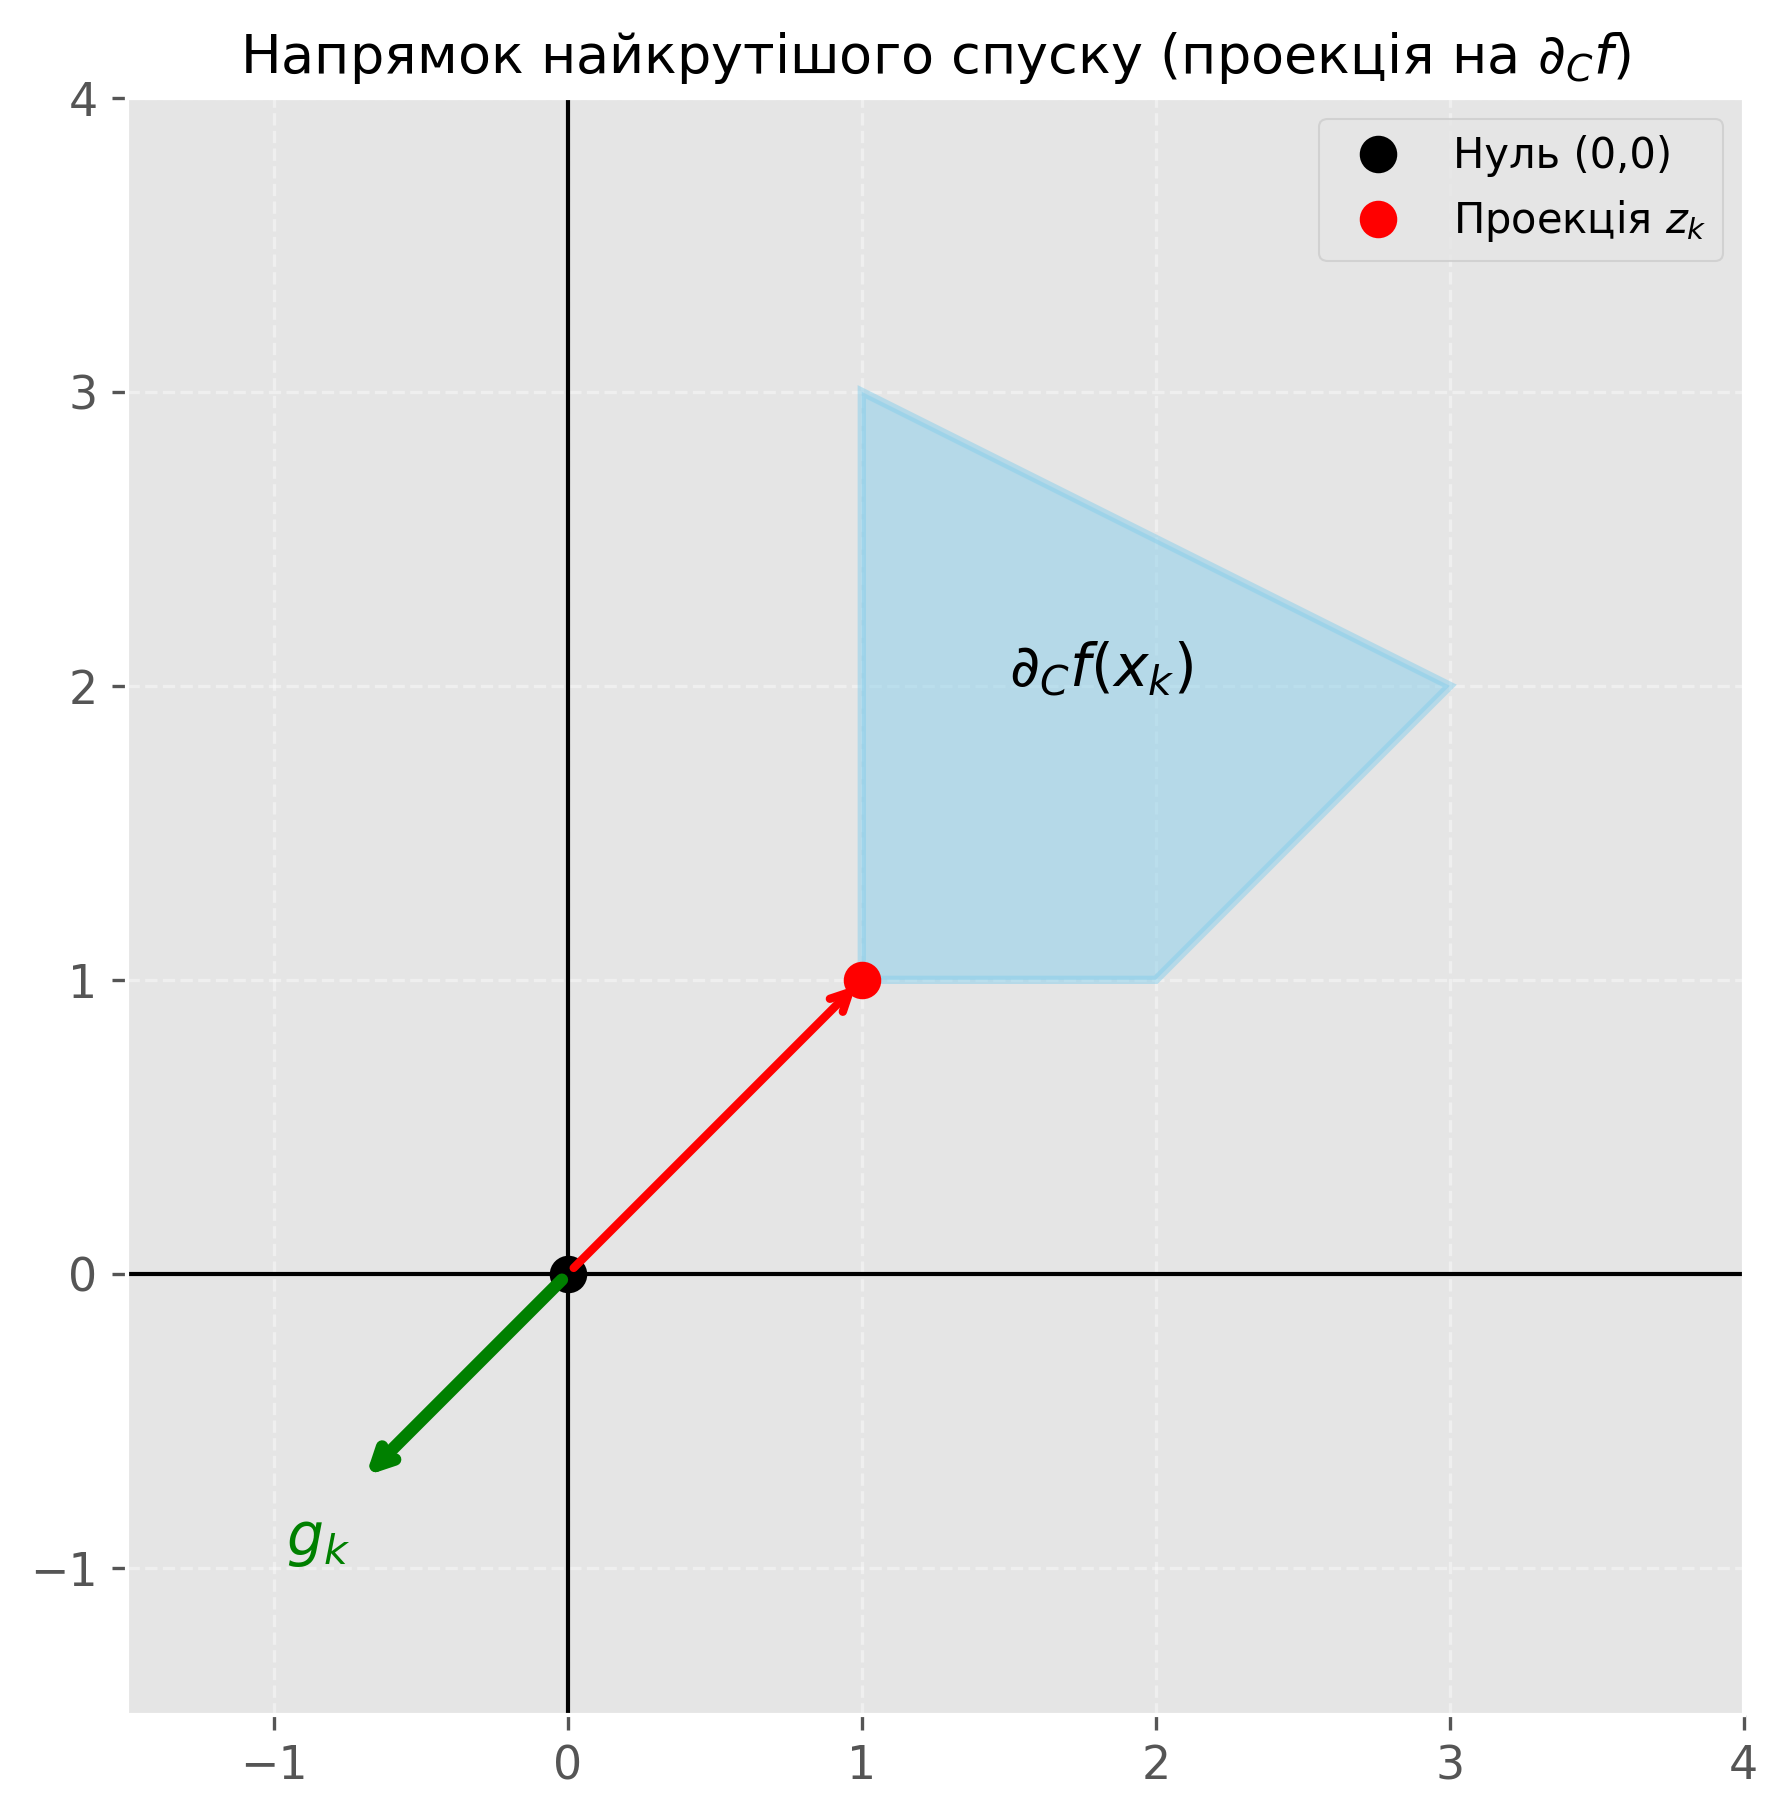
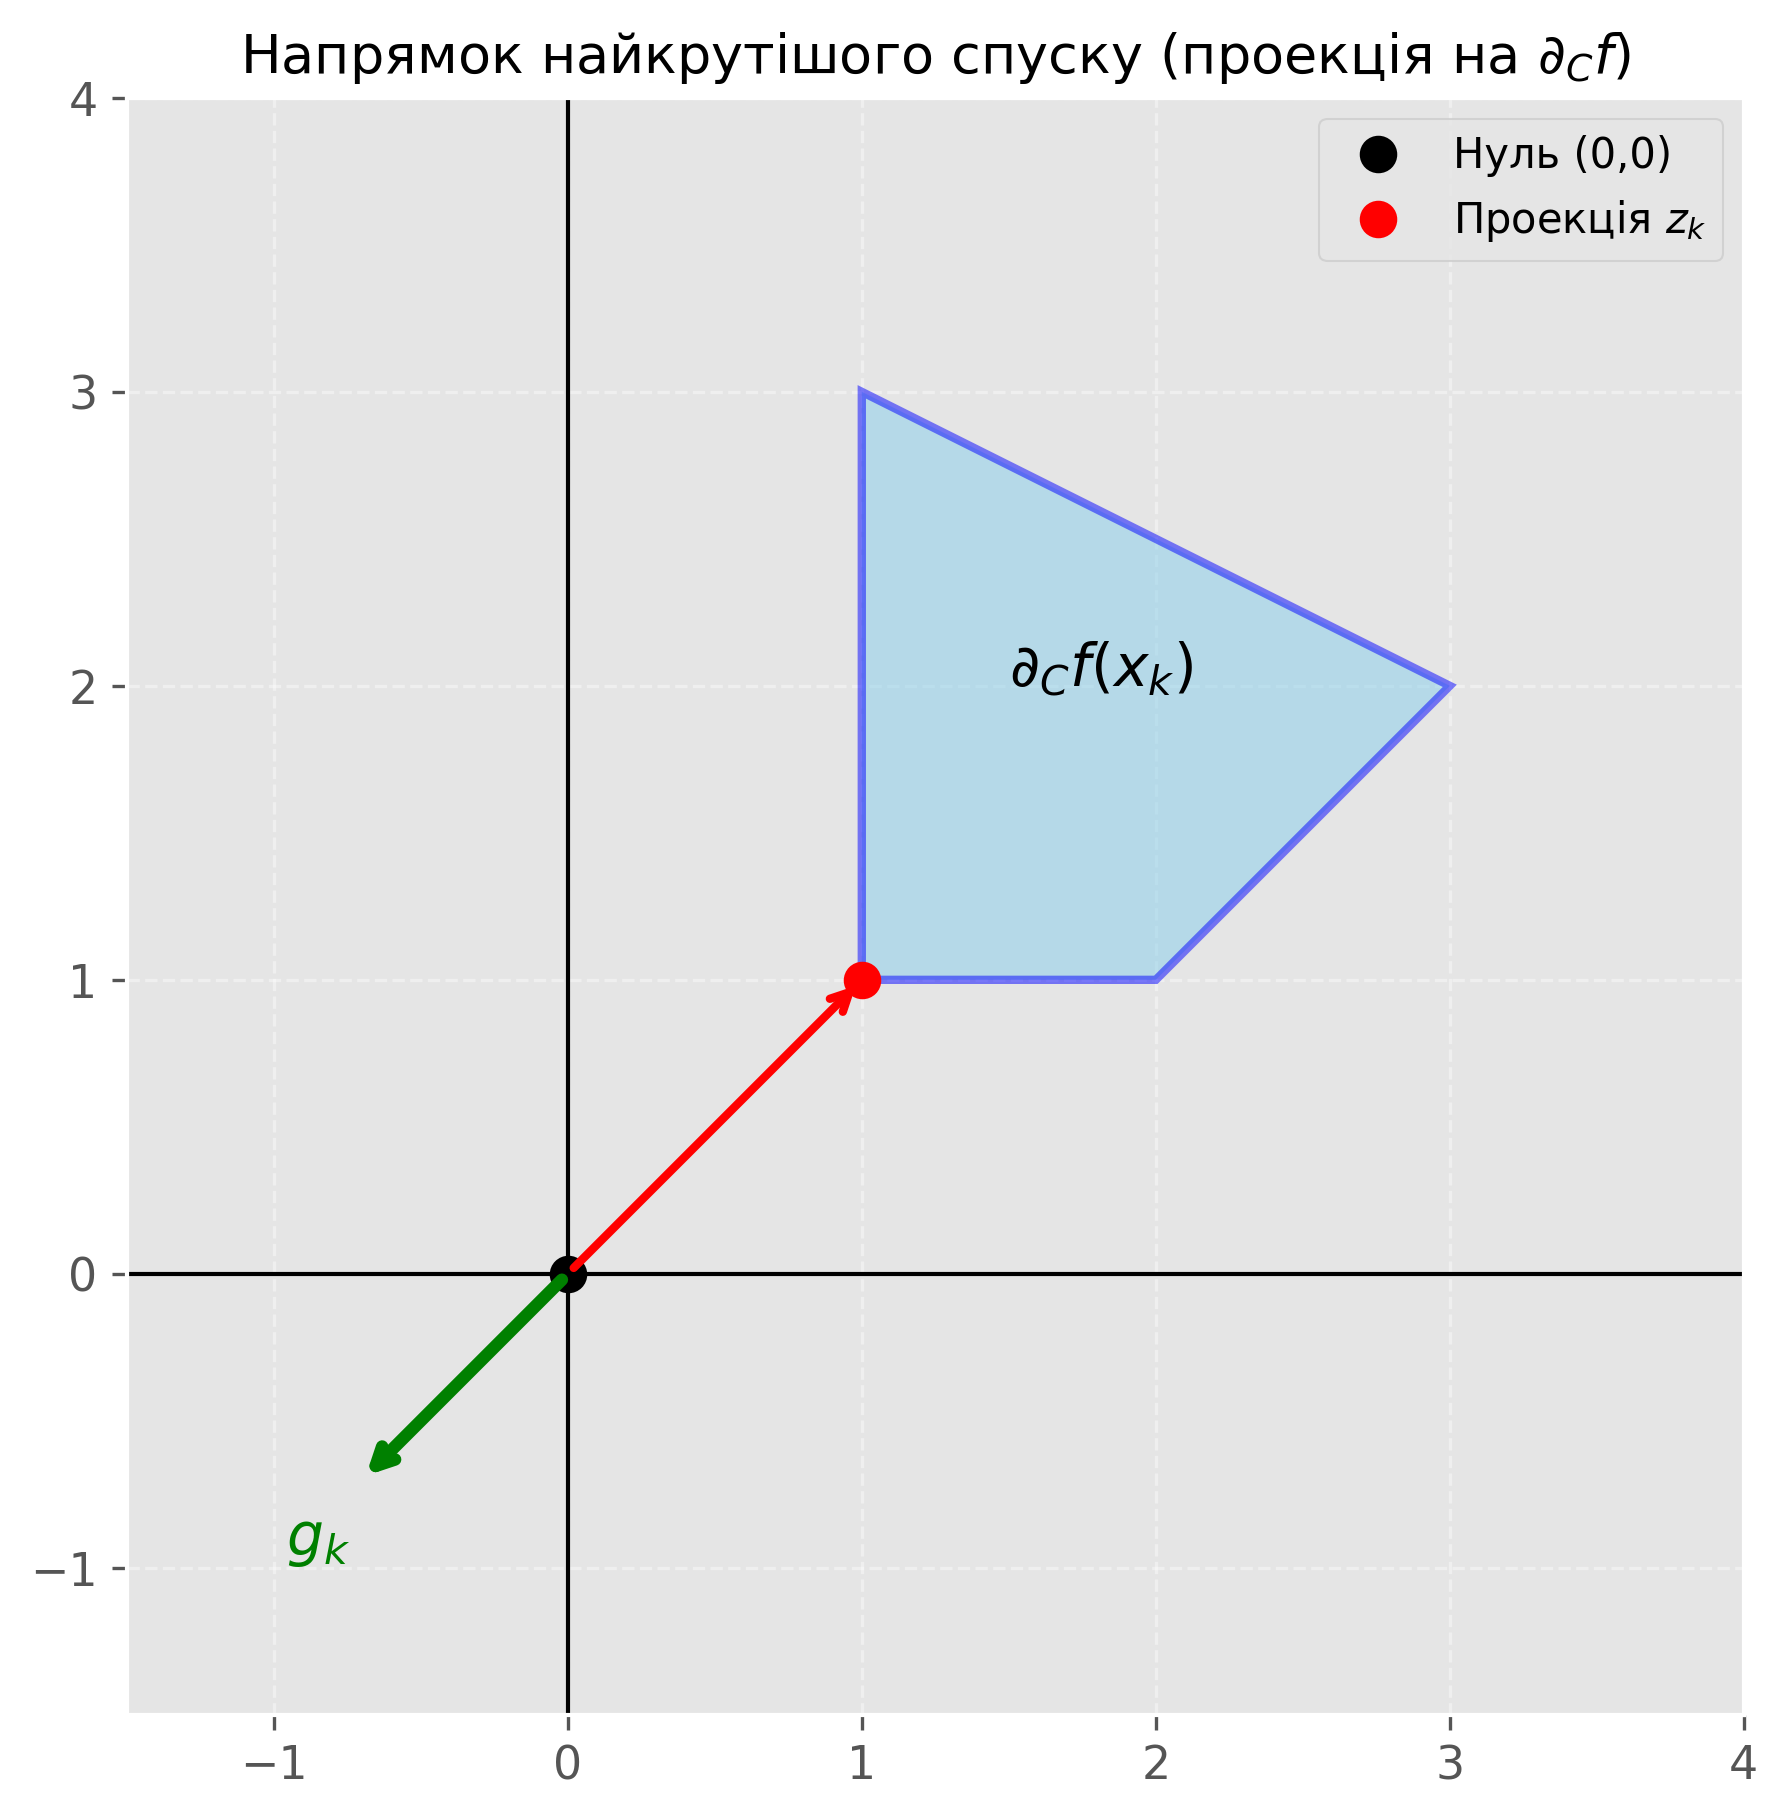
Add remaining glossary figures and tighten document layout.
Integrate 10 matplotlib illustrations into the handbook, reduce font and margins for a more compact PDF.

diff --git a/10-sem/nonsmooth-analysis/latex/generate_figures.py b/10-sem/nonsmooth-analysis/latex/generate_figures.py
@@ -6,6 +6,7 @@ from pathlib import Path
 import matplotlib.pyplot as plt
 import numpy as np
 from matplotlib.patches import Polygon
+from mpl_toolkits.mplot3d.art3d import Poly3DCollection
 
 OUTPUT_DIR = Path(__file__).resolve().parent / "images"
 OUTPUT_DIR.mkdir(exist_ok=True)
@@ -94,7 +95,7 @@ def plot_clarke_descent() -> Path:
     poly = Polygon(
         polygon_points,
         closed=True,
-        color="skyblue",
+        facecolor="skyblue",
         alpha=0.5,
         edgecolor="blue",
         linewidth=2,
@@ -125,11 +126,257 @@ def plot_clarke_descent() -> Path:
     return save_figure(fig, "clarke_descent.png")
 
 
+def plot_minkowski_gauge() -> Path:
+    fig, ax = plt.subplots(figsize=(7, 7))
+
+    u_points = np.array([[1, 0], [0, 1], [-1, 0], [0, -1]])
+    ax.add_patch(
+        Polygon(
+            u_points,
+            closed=True,
+            facecolor="blue",
+            alpha=0.3,
+            edgecolor="blue",
+            linewidth=2,
+            label="Множина $U$",
+        )
+    )
+
+    x_point = np.array([1.5, 1.5])
+    lambda_val = np.abs(x_point[0]) + np.abs(x_point[1])
+
+    lambda_u_points = u_points * lambda_val
+    ax.add_patch(
+        Polygon(
+            lambda_u_points,
+            closed=True,
+            facecolor="red",
+            alpha=0.1,
+            edgecolor="red",
+            linestyle="--",
+            linewidth=2,
+            label=r"$\lambda U$ (надута)",
+        )
+    )
+
+    ax.plot(x_point[0], x_point[1], "ro", markersize=8, label="Точка $x$")
+    ax.annotate("", xy=x_point, xytext=(0, 0), arrowprops=dict(arrowstyle="->", color="black", lw=1.5))
+    ax.plot(0, 0, "ko", markersize=6)
+
+    ax.set_xlim(-3.5, 3.5)
+    ax.set_ylim(-3.5, 3.5)
+    ax.set_aspect("equal")
+    ax.set_title(r"Функція Мінковського: $x \in \lambda U \Rightarrow p_U(x) = 3$")
+    ax.legend()
+    ax.grid(True, linestyle="--", alpha=0.4)
+    return save_figure(fig, "minkowski_gauge.png")
+
+
+def plot_fenchel_conjugate() -> Path:
+    fig, ax = plt.subplots(figsize=(8, 6))
+
+    x = np.linspace(-1, 3, 100)
+    f_x = 0.5 * x**2
+    p = 1.5
+    line_px = p * x
+
+    ax.plot(x, f_x, "b-", linewidth=2, label=r"$f(x) = \frac{1}{2}x^2$")
+    ax.plot(x, line_px, "g-", linewidth=2, label=r"Пряма $y = px$ (де $p=1.5$)")
+
+    x_star = p
+    y_f = 0.5 * x_star**2
+    y_l = p * x_star
+
+    ax.plot([x_star, x_star], [y_f, y_l], "r--", linewidth=3, label=r"Макс. зазор $= f^*(p)$")
+    ax.plot(x_star, y_f, "bo")
+    ax.plot(x_star, y_l, "go")
+
+    ax.set_xlabel("$x$")
+    ax.set_ylabel("$y$")
+    ax.set_title(r"Спряжена функція Фенхеля: $f^*(p) = \sup_x (px - f(x))$")
+    ax.legend()
+    ax.grid(True, linestyle="--", alpha=0.4)
+    return save_figure(fig, "fenchel_conjugate.png")
+
+
+def plot_bouligand_cones() -> Path:
+    fig, ax = plt.subplots(figsize=(7, 7))
+
+    x_points = np.array([[0, 0], [3, 1], [3, 3], [1, 3]])
+    ax.add_patch(
+        Polygon(
+            x_points,
+            closed=True,
+            facecolor="gray",
+            alpha=0.4,
+            edgecolor="black",
+            linewidth=2,
+            label="Множина $X$",
+        )
+    )
+
+    ax.plot(0, 0, "ko", markersize=8, label="Точка $x_0$ (кут)")
+
+    ax.plot([0, 4], [0, 4 / 3], "g--", linewidth=2)
+    ax.plot([0, 4 / 3], [0, 4], "g--", linewidth=2)
+    ax.fill([0, 4 / 3, 4], [0, 4, 4 / 3], color="green", alpha=0.1, label="Дотичний конус $T(X, x_0)$")
+
+    ax.plot([0, -1.5], [0, 4.5], "r-", linewidth=2)
+    ax.plot([0, -4.5], [0, 1.5], "r-", linewidth=2)
+    ax.add_patch(
+        Polygon(
+            np.array([[0, 0], [-1.5, 4.5], [-4.5, 4.5], [-4.5, 1.5]]),
+            closed=True,
+            facecolor="red",
+            alpha=0.2,
+            edgecolor="red",
+            linewidth=1,
+            label="Нормальний конус $N(X, x_0)$",
+        )
+    )
+
+    ax.set_xlim(-4, 4)
+    ax.set_ylim(-1, 4)
+    ax.set_aspect("equal")
+    ax.set_title("Дотичний та нормальний конуси у кутовій точці")
+    ax.legend(loc="lower right")
+    ax.grid(True, linestyle="--", alpha=0.4)
+    return save_figure(fig, "bouligand_cones.png")
+
+
+def plot_max_subdifferential() -> Path:
+    fig, ax = plt.subplots(figsize=(8, 6))
+
+    x = np.linspace(0, 2, 200)
+    f1 = x**2
+    f2 = 2 - x
+    f_max = np.maximum(f1, f2)
+
+    ax.plot(x, f1, "b--", alpha=0.5, label=r"$f_1(x) = x^2$")
+    ax.plot(x, f2, "g--", alpha=0.5, label=r"$f_2(x) = 2-x$")
+    ax.plot(x, f_max, "r-", linewidth=3, label=r"$f(x) = \max(f_1, f_2)$")
+
+    x_kink, y_kink = 1, 1
+    ax.plot(x_kink, y_kink, "ko", markersize=8)
+
+    x_tan = np.linspace(0.5, 1.5, 10)
+    ax.plot(x_tan, 2 * (x_tan - x_kink) + y_kink, "b-", label="Дотична до $f_1$ ($v=2$)")
+    ax.plot(x_tan, -1 * (x_tan - x_kink) + y_kink, "g-", label="Дотична до $f_2$ ($v=-1$)")
+    ax.fill_between(
+        x_tan,
+        -1 * (x_tan - x_kink) + y_kink,
+        2 * (x_tan - x_kink) + y_kink,
+        color="red",
+        alpha=0.1,
+        label=r"$\partial f(1) = [-1, 2]$",
+    )
+
+    ax.set_xlabel("$x$")
+    ax.set_ylabel("$y$")
+    ax.set_title(r"Субдиференціал max: $\mathrm{co}\{\partial f_1, \partial f_2\}$")
+    ax.set_ylim(0, 3)
+    ax.legend()
+    ax.grid(True, linestyle="--", alpha=0.4)
+    return save_figure(fig, "max_subdifferential.png")
+
+
+def plot_relative_interior() -> Path:
+    fig = plt.figure(figsize=(8, 6))
+    ax = fig.add_subplot(111, projection="3d")
+
+    xx, yy = np.meshgrid(np.linspace(-2, 2, 10), np.linspace(-2, 2, 10))
+    zz = 0.5 * xx + 0.5 * yy
+    ax.plot_surface(xx, yy, zz, color="gray", alpha=0.15, edgecolor="none")
+
+    theta = np.linspace(0, 2 * np.pi, 80)
+    r = 1.5
+    xc = r * np.cos(theta)
+    yc = r * np.sin(theta)
+    zc = 0.5 * xc + 0.5 * yc
+
+    disk_verts = [list(zip(xc, yc, zc))]
+    ax.add_collection3d(
+        Poly3DCollection(
+            disk_verts,
+            facecolor="blue",
+            alpha=0.45,
+            edgecolor="blue",
+            linewidth=1.5,
+        )
+    )
+    ax.plot(xc, yc, zc, color="blue", linewidth=2, label="Межа множини $X$")
+    ax.scatter([0], [0], [0], color="red", s=100, label=r"Точка $x \in \mathrm{ri}\,X$")
+
+    ax.set_xlabel("$x_1$")
+    ax.set_ylabel("$x_2$")
+    ax.set_zlabel("$x_3$")
+    ax.set_title(r"Відносне нутро $\mathrm{ri}\,X$: диск без 3D-об'єму")
+    ax.legend(loc="upper left")
+    return save_figure(fig, "relative_interior.png")
+
+
+def plot_demyanov_shift() -> Path:
+    fig, ax = plt.subplots(figsize=(7, 7))
+
+    df_points = np.array([[-1, 1], [1, 2], [2, 0], [0, -1]])
+    ax.add_patch(
+        Polygon(
+            df_points,
+            closed=True,
+            facecolor="blue",
+            alpha=0.2,
+            edgecolor="blue",
+            linewidth=2,
+            label=r"$\partial f(x_k)$",
+        )
+    )
+
+    omega = np.array([2.0, 1.0])
+    l_omega_points = df_points + omega
+    ax.add_patch(
+        Polygon(
+            l_omega_points,
+            closed=True,
+            facecolor="green",
+            alpha=0.3,
+            edgecolor="green",
+            linewidth=2,
+            label=r"$L_\omega = \partial f(x_k) + \omega$",
+        )
+    )
+
+    origin = np.array([0.0, 0.0])
+    z_omega = np.array([2.0, 0.0])
+
+    ax.plot(origin[0], origin[1], "ko", markersize=8, label="Початок координат (0,0)")
+    ax.plot(z_omega[0], z_omega[1], "ro", markersize=8, label=r"Вектор мін. норми $z_k^\omega$")
+
+    ax.annotate("", xy=omega, xytext=origin, arrowprops=dict(arrowstyle="->", color="gray", lw=2))
+    ax.annotate("", xy=z_omega, xytext=origin, arrowprops=dict(arrowstyle="->", color="red", lw=2))
+    ax.text(1.0, 0.5, r"$\omega$", fontsize=14, color="gray")
+
+    ax.set_xlim(-2, 4)
+    ax.set_ylim(-2, 4)
+    ax.axhline(0, color="black", linewidth=1)
+    ax.axvline(0, color="black", linewidth=1)
+    ax.grid(True, linestyle="--", alpha=0.4)
+    ax.set_aspect("equal")
+    ax.set_title(r"Метод Дем'янова: проекція нуля на $L_\omega$")
+    ax.legend()
+    return save_figure(fig, "demyanov_shift.png")
+
+
 def main() -> None:
     paths = [
         plot_subgradient_3d(),
         plot_eps_subgradient(),
         plot_clarke_descent(),
+        plot_minkowski_gauge(),
+        plot_fenchel_conjugate(),
+        plot_bouligand_cones(),
+        plot_max_subdifferential(),
+        plot_relative_interior(),
+        plot_demyanov_shift(),
     ]
     for path in paths:
         print(f"Збережено: {path}")

diff --git a/10-sem/nonsmooth-analysis/latex/Негладка_оптимізація.tex b/10-sem/nonsmooth-analysis/latex/Негладка_оптимізація.tex
@@ -1,6 +1,6 @@
-\documentclass[14pt,a4paper]{extarticle}
+\documentclass[12pt,a4paper]{extarticle}
 
-\usepackage[a4paper, left=3cm, right=1cm, top=2cm, bottom=2cm]{geometry}
+\usepackage[a4paper, left=2.5cm, right=1.5cm, top=1.5cm, bottom=1.5cm]{geometry}
 \usepackage{fontspec}
 \setmainfont{Times New Roman}[
   Ligatures=TeX,
@@ -21,9 +21,11 @@
 \usepackage{fancyhdr}
 \usepackage{indentfirst}
 
-\onehalfspacing
+\setlength{\headheight}{17pt}
+
+\setstretch{1.25}
 \justifying
-\setlength{\parindent}{10mm}
+\setlength{\parindent}{7mm}
 \setlength{\parskip}{0pt}
 
 \addto\captionsukrainian{%
@@ -107,10 +109,10 @@
 \begin{titlepage}
 \thispagestyle{empty}
 \begin{center}
-\vspace*{4cm}
-{\Large\bfseries Словничок термінів та основних понять\\[0.4em] з математичної нелінійної оптимізації}\\[1.5cm]
-{\normalsize на основі матеріалу лекцій Джалладової І.~А.\\ та посібника М.~П.~Моклячука\\[0.3em] \emph{«Негладкий аналіз та оптимізація»}}\\[2.5cm]
-{\large Виконав: Кіщук Ярослав}\\[0.6cm]
+\vspace*{3cm}
+{\Large\bfseries Словничок термінів та основних понять\\[0.3em] з математичної нелінійної оптимізації}\\[1.2cm]
+{\normalsize на основі матеріалу лекцій Джалладової І.~А.\\ та посібника М.~П.~Моклячука\\[0.2em] \emph{«Негладкий аналіз та оптимізація»}}\\[2cm]
+{\large Виконав: Кіщук Ярослав}\\[0.4cm]
 {\normalsize Викладач: Джалладова І.~А.}
 \vfill
 {\normalsize Київ~--- 2026}
@@ -179,6 +181,13 @@ $$
     \item Відносне нутро відносного нутра збігається з відносним нутром: $\operatorname{ri}(\operatorname{ri} X) = \operatorname{ri} X$.
     \item Якщо $x \in \operatorname{ri} X$ та $y \in \overline{X}$, то для всіх $\lambda \in (0, 1]$ виконується $\lambda x + (1-\lambda)y \in \operatorname{ri} X$.
 \end{enumerate}
+
+\begin{figure}[htbp]
+\centering
+\includegraphics[width=0.85\textwidth]{relative_interior.png}
+\caption{Геометричний зміст відносного нутра: диск не має об'єму у 3D просторі (звичайне нутро порожнє), але має внутрішність відносно своєї афінної площини.}
+\label{fig:relative-interior}
+\end{figure}
 
 \section{Підпростір, гіперплощина, півпростір, промінь.}
 Гіперплощина з нормаллю $p$ задається рівнянням
@@ -377,6 +386,13 @@ $$
 $$
 \mu(x \mid A)= \begin{cases}0, & x=0 \\ \inf \left\{\lambda>0: \lambda^{-1} x \in A\right\}, & x \neq 0\end{cases}
 $$
+
+\begin{figure}[htbp]
+\centering
+\includegraphics[width=0.7\textwidth]{minkowski_gauge.png}
+\caption{Геометричний зміст функції Мінковського: коефіцієнт $\lambda$, на який треба розтягнути базову множину $U$, щоб вона досягла точки $x$.}
+\label{fig:minkowski-gauge}
+\end{figure}
 
 Спряженою до функції Мінковського множини $A$ є індикаторна функція поляри $A^{0}$. (про це далі) I я б хотів ще зазначити деякі властивості: Нехай - опукла множина і $0 \in \operatorname{int}()$. Функція Мінковського має такі властивості:\\
 а) якщо $\lambda \geq 0$, то $\mu(\lambda x \mid M)=\lambda \mu(x \mid M)$;\\
@@ -590,6 +606,13 @@ $$
 f^{*}\left(x^{*}\right)=\sup _{x}\left\{\left\langle x^{*}, x\right\rangle-f(x)\right\} .
 $$
 
+\begin{figure}[htbp]
+\centering
+\includegraphics[width=0.85\textwidth]{fenchel_conjugate.png}
+\caption{Перетворення Лежандра-Фенхеля: значення $f^*(p)$ дорівнює максимальній вертикальній відстані (зазору) між прямою $y = px$ та графіком функції $f(x)$.}
+\label{fig:fenchel-conjugate}
+\end{figure}
+
 Ця ж функція називається перетворенням Юнга-Фенхеля функції $f$.\\
 Коли $f(x)$ - опукла гладка функція на $\mathbb{R}^{n}$, що росте на нескінченності швидше лінійної функції, перетворення Юнга-Фенхеля - це перетворення Лежандра:
 
@@ -693,6 +716,13 @@ $$
 $$
 I\left(x_{0}\right)=\left\{i: f_{i}\left(x_{0}\right)=f\left(x_{0}\right)\right\} .
 $$
+
+\begin{figure}[htbp]
+\centering
+\includegraphics[width=0.85\textwidth]{max_subdifferential.png}
+\caption{Субдиференціал максимуму двох функцій є опуклою оболонкою їхніх дотичних у точці перетину (зламу), утворюючи суцільне «віяло» опорних прямих.}
+\label{fig:max-subdifferential}
+\end{figure}
 
 \section{Субдиференціал композиції функцій.}
 Нехай $\Lambda: X \rightarrow Y$ - неперервний лінійний оператор, $f$ - опукла функція на $Y$. Тоді для кожної точки $x \in X$ справджується
@@ -1843,6 +1873,14 @@ $$
 $$
 z_k^{\omega} = \arg\min_{z \in L_{\omega}(x_k)} \|z\|.
 $$
+
+\begin{figure}[htbp]
+\centering
+\includegraphics[width=0.75\textwidth]{demyanov_shift.png}
+\caption{Крок методу Дем'янова: базовий субдиференціал зсувається на вектор $\omega$, утворюючи множину $L_\omega$, на якій відшукується елемент із мінімальною евклідовою нормою.}
+\label{fig:demyanov-shift}
+\end{figure}
+
 Оптимальний напрямок спуску, що відповідає даному $\omega$, має вигляд $g_{\omega}(x_k) = -\frac{z_k^{\omega}}{\|z_k^{\omega}\|}$.
 
 Далі виконується одновимірна мінімізація вздовж променя для кожного можливого напрямку:
@@ -1870,6 +1908,13 @@ $$
 P(X, x) = \{ g \in \mathbb{R}^n \mid \exists \alpha_0 > 0 : x + \alpha g \in X \quad \forall \alpha \in [0, \alpha_0] \}.
 $$
 Для будь-якої множини справедливе включення $\overline{P}(X, x) \subset T(X, x)$. Якщо множина $X$ опукла, то їхні замикання збігаються: $\overline{P}(X, x) = T(X, x)$.
+
+\begin{figure}[htbp]
+\centering
+\includegraphics[width=0.7\textwidth]{bouligand_cones.png}
+\caption{Дотичний конус розширює «кут» множини назовні, а нормальний конус є його полярою --- множиною всіх векторів, що утворюють тупий кут із дотичними напрямками.}
+\label{fig:bouligand-cones}
+\end{figure}
 
 \section{Нормальний конус.}
 \textbf{Означення.} \textit{Нормальним конусом} $N(X, x)$ до множини $X$ у точці $x \in X$ називається поляра (негативний спряжений конус) до дотичного конуса Булігана: